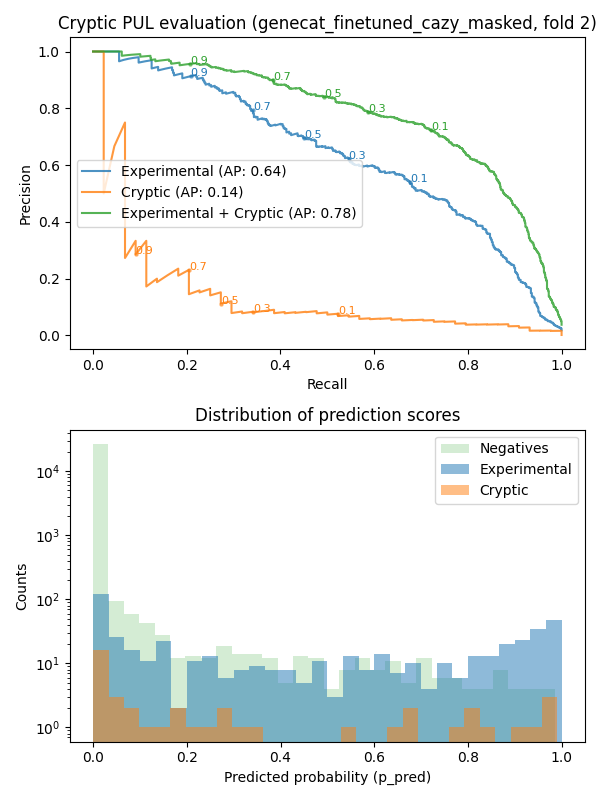
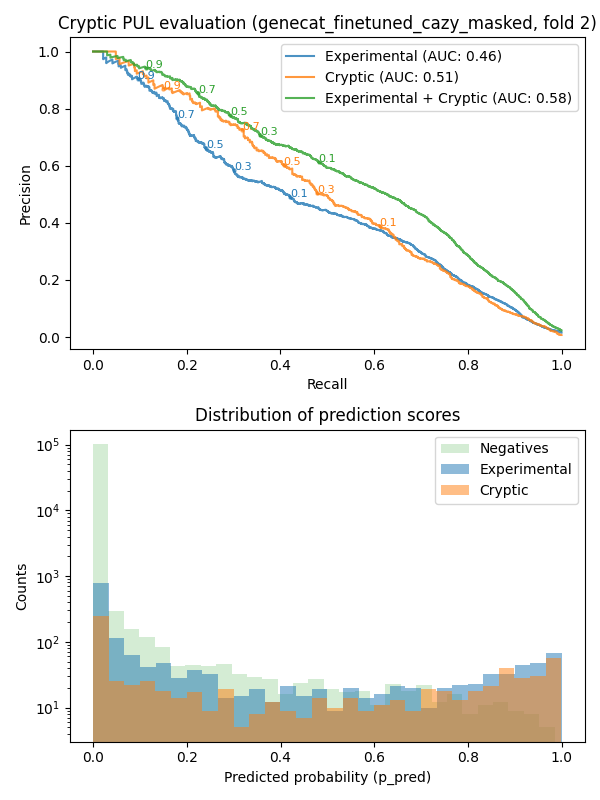
add visualizations for masked models vs unmasked

diff --git a/src/scripts/visualization/evaluate_predictions.py b/src/scripts/visualization/evaluate_predictions.py
@@ -91,7 +91,9 @@ def compare_all_models(all_models, model_class):
     fig_roc.suptitle("ROC Curves of all tested models (all folds)")
     fig_bac.suptitle("Precision-Recall Curves for Bacteroidota generalization test (folds 5 and 6)")
 
-    auprc_scores = []
+    auprc_exp = []
+    auprc_cryptic = []
+    auprc_both = []
     for i, model_evaluator in enumerate(evaluators):
         print(f"Plotting for {all_models[i]}")
         # before aggregating, plot for folds 5 and 6 separately
@@ -104,12 +106,15 @@ def compare_all_models(all_models, model_class):
         model_evaluator.aggregate_all_folds()
 
         # evaluate predictions on cryptic puls
-        model_evaluator.test_cryptic_puls("all")
-
+        auprc_e, auprc_cr, auprc_b = model_evaluator.test_cryptic_puls("all")
+        # save auprc scores
+        auprc_exp.append(auprc_e)
+        auprc_cryptic.append(auprc_cr)
+        auprc_both.append(auprc_b)
+        
         # for true vs pred
         true_masked, _, p_pred_masked, _ = model_evaluator.get_evaluation_data(model_evaluator.labeled_results[0], mask_cryptic=True)
-        auprc = model_evaluator.plot_pr(true_masked, p_pred_masked, all_models[i], colors[i], ax[0])
-        auprc_scores.append(auprc)
+        model_evaluator.plot_pr(true_masked, p_pred_masked, all_models[i], colors[i], ax[0])
         model_evaluator.roc_curve(true_masked, p_pred_masked, all_models[i], colors[i], ax_roc[0])
 
         # for pulpy vs pred
@@ -131,9 +136,23 @@ def compare_all_models(all_models, model_class):
             ax_roc[j].legend(loc="lower right")
             ax_bac[j].legend(loc="upper right")
 
+    # plot bar plot of auprc scores
+    models = [e.model_name for e in evaluators]
+    x = np.arange(len(models))   # group positions
+    width = 0.25
+    bars_exp= ax_bar.bar(x - width, auprc_exp, width, label="Experimental", color="steelblue")
+    bars_cryptic = ax_bar.bar(x, auprc_cryptic, width, label="Cryptic", color="orange")
+    bars_both= ax_bar.bar(x + width,auprc_both,width,label="Both",color="green")
+    ax_bar.bar_label(bars_exp, fmt="%.2f", padding=3, fontsize=8)
+    ax_bar.bar_label(bars_cryptic, fmt="%.2f", padding=3, fontsize=8)
+    ax_bar.bar_label(bars_both, fmt="%.2f", padding=3, fontsize=8)
+    ax_bar.set_ylim(0, 0.8)
     
-    ax_bar.bar(x=[e.model_name for e in evaluators], height=auprc_scores, color=colors[:len(auprc_scores)])
-    ax_bar.tick_params("x", rotation=60)
+    ax_bar.set_xticks(x)
+    ax_bar.set_xticklabels(models, rotation=45, ha="right")
+    ax_bar.set_ylabel("AUPRC")
+    ax_bar.set_title("AUPRC per model")
+    ax_bar.legend()
 
     fig.tight_layout()
     fig.savefig(f"results/plots/aggregated/pr_curves_{model_class}.png")
@@ -165,7 +184,9 @@ def evaluate_model(args, model_name):
             output_path=output_path,
             weight=args.weight
         )
-        evaluator.precision_recall_curve("all")
+        for k in range(5):
+            evaluator.test_cryptic_puls(k)
+
         evaluator.test_cryptic_puls("all")
 
 
@@ -182,7 +203,7 @@ def main(args):
         return
 
     if model_name == "masked":
-        all_models = ["genecat_zeroshot_pfam_masked", "genecat_zeroshot_cazy_masked", "esmc_masked", "bacformer_masked"]
+        all_models = ["genecat_zeroshot_cazy", "genecat_zeroshot_cazy_masked", "genecat_finetuned_cazy", "genecat_finetuned_cazy_masked", "esmc", "esmc_masked", "bacformer", "bacformer_masked"]
         compare_all_models(all_models, model_name)
         return
 

diff --git a/src/scripts/visualization/visualization_utilities.py b/src/scripts/visualization/visualization_utilities.py
@@ -367,9 +367,9 @@ class PredictionEvaluator:
         colors = plt.cm.tab10.colors
         thresholds_to_mark = [0.1, 0.3, 0.5, 0.7, 0.9]
         # --- Top: PR curves ---
-        self.plot_pr(y_exp, p_pred_exp, "Experimental", colors[0], ax1, thresholds_to_mark=thresholds_to_mark)
-        self.plot_pr(y_cryptic, p_pred_cryptic, "Cryptic", colors[1], ax1, thresholds_to_mark=thresholds_to_mark)
-        self.plot_pr(y_both, p_pred_both, "Experimental + Cryptic", colors[2], ax1, thresholds_to_mark=thresholds_to_mark)
+        auprc_exp = self.plot_pr(y_exp, p_pred_exp, "Experimental", colors[0], ax1, thresholds_to_mark=thresholds_to_mark)
+        auprc_cryptic = self.plot_pr(y_cryptic, p_pred_cryptic, "Cryptic", colors[1], ax1, thresholds_to_mark=thresholds_to_mark)
+        auprc_both = self.plot_pr(y_both, p_pred_both, "Experimental + Cryptic", colors[2], ax1, thresholds_to_mark=thresholds_to_mark)
 
         ax1.set_xlabel("Recall")
         ax1.set_ylabel("Precision")
@@ -395,6 +395,8 @@ class PredictionEvaluator:
         plt.tight_layout()
         plt.savefig(f"{self.output_path}/cryptic_pr_{self.model_name}_{self.split}_{fold}.png")
         plt.close()
+
+        return auprc_exp, auprc_cryptic, auprc_both
 
 
         def venn_diagram(self, fold):
